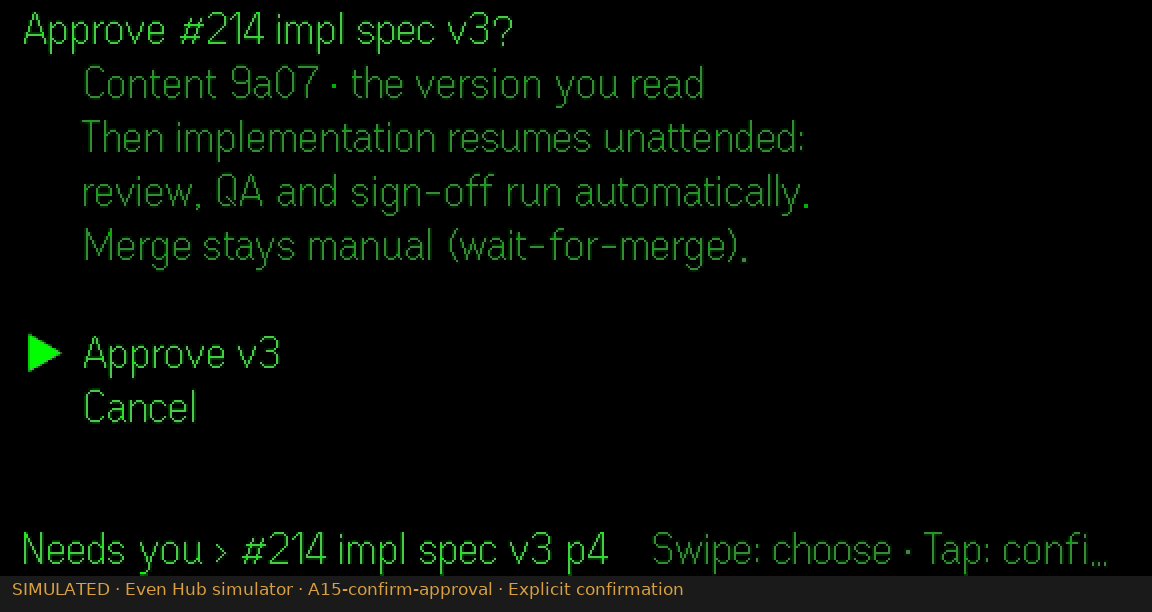
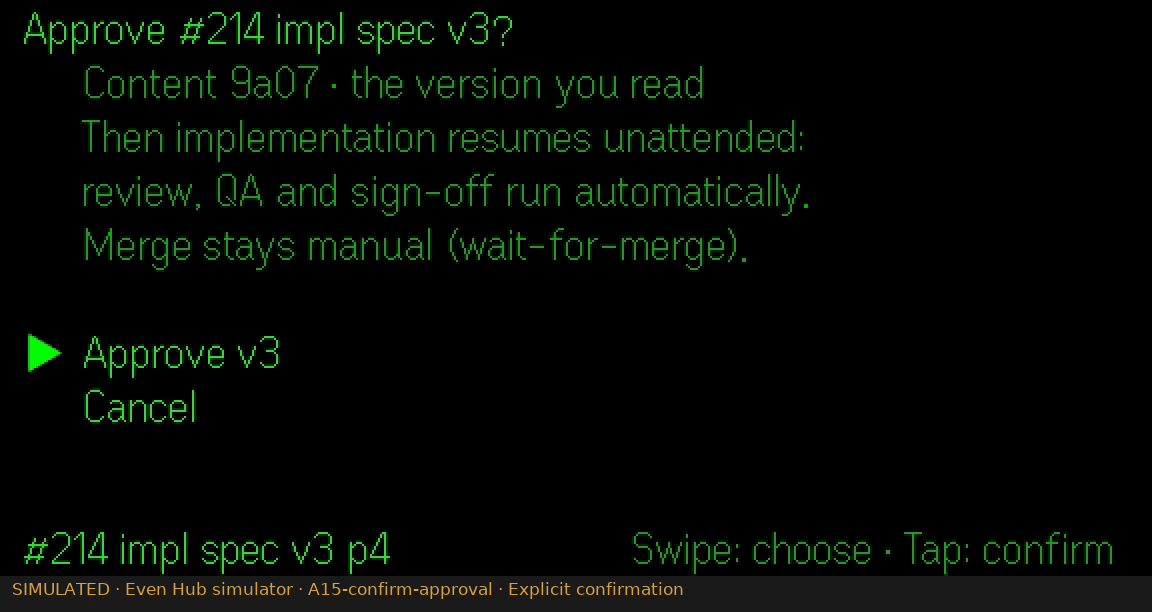
review-loop f264 i2: keep confirmation footer hint whole (A15/B16/C06/C07/D02/D03 showed 'Tap: confi…'), show history timer owners on their own row and fit attempts to the unscrollable view with an earlier-count, drop the pane from the voice panel header when it would truncate, checker fails truncat

Changed region(s): [[0.0, 0.8693, 0.9688, 0.9314]]

diff --git a/pm/docs/even-realities/mockup/src/app.js b/pm/docs/even-realities/mockup/src/app.js
@@ -3,7 +3,7 @@
 //
 // Intents are the behavior; the gesture binding lives in input.js and is one
 // candidate (see ../proposal.md "Candidate binding").
-import { wrap, width, GLYPH, BODY_ROWS } from './text.js';
+import { wrap, width, GLYPH, BODY_ROWS, MARGIN, RIGHT_X } from './text.js';
 import { row } from './frame.js';
 
 export const MENU = Object.freeze([
@@ -308,13 +308,22 @@ export class App {
         return out;
       }
       case 'history': {
+        // Nothing here is selectable, so the view cannot scroll: each timer
+        // takes two rows (its owner does not fit beside the countdown) and
+        // only the newest attempts that fit are shown.
         const h = pm.historyFor(v.pr);
         const out = [it([{ t: 'TIMERS', dim: true }], null, null)];
-        for (const t of h.timers) out.push(it([{ t: t.what }, { t: ` · ${t.owner}`, dim: true }], { t: `${t.left} → ${t.then}`, dim: false }, null));
+        for (const t of h.timers) {
+          out.push(it(t.what, { t: `${t.left} → ${t.then}`, dim: false }, null));
+          out.push(it([{ t: `owner: ${t.owner}`, x: 18, dim: true }], null, null));
+        }
         if (!h.timers.length) out.push(it([{ t: 'No PR-owned timers', dim: true }], null, null));
-        out.push(it([{ t: 'ATTEMPTS', dim: true }], null, null));
+        const room = Math.max(1, LIST_ROWS - out.length - 1);
+        const shown = h.attempts.slice(-room);
+        const earlier = h.attempts.length - shown.length;
+        out.push(it([{ t: 'ATTEMPTS', dim: true }], earlier ? { t: `+${earlier} earlier`, dim: true } : null, null));
         if (!h.attempts.length) out.push(it([{ t: 'No attempts yet', dim: true }], null, null));
-        for (const [at, what, took, outcome] of h.attempts.slice(-5)) out.push(it([{ t: at, dim: true }, { t: what, x: 86 }], { t: `${took} ${outcome}`, dim: outcome !== 'running' }, null));
+        for (const [at, what, took, outcome] of shown) out.push(it([{ t: at, dim: true }, { t: what, x: 86 }], { t: `${took} ${outcome}`, dim: outcome !== 'running' }, null));
         return out;
       }
       case 'whatchanged': {
@@ -600,9 +609,9 @@ export class App {
     if (s.run != null) return `#${this.pm.pr(s.pr).num} QA run ${s.run} · ${s.role}`;
     return `#${this.pm.pr(s.pr).num} ${s.role}`;
   }
-  breadcrumb(skip = 0) {
+  breadcrumb(skip = 0, keep = 2) {
     const names = this.stack.slice(0, this.stack.length - skip).map(x => this.shortName(x)).filter(Boolean);
-    return names.slice(-2).join(' › ');
+    return names.slice(-keep).join(' › ');
   }
   shortName(x) {
     if (x.type === 'doc') return `${this.pm.doc(x.docId).label} v${x.version} p${this.page(x).page}`;
@@ -650,8 +659,11 @@ export class App {
       rows.push(row([...(selected ? [{ t: GLYPH.cursor }] : []), ...segs.map((s, n) => ({ ...s, x: n === 0 || s.x != null ? INDENT + (s.x ?? 0) : undefined, dim: s.dim ?? !it.act }))], it.r));
     });
     const more = items.length > per ? ` · ${v.top + 1}-${Math.min(items.length, v.top + per)}/${items.length}` : '';
-    const hint = v.kind === 'confirm' ? 'Swipe: choose · Tap: confirm' : items.some(i => i.act) ? 'Tap: open · 2×: back' : '2×: back';
-    return { rows, footer: { left: `${this.breadcrumb(0) || ''}${more}`, right: hint } };
+    const confirm = v.kind === 'confirm';
+    const hint = confirm ? 'Swipe: choose · Tap: confirm' : items.some(i => i.act) ? 'Tap: open · 2×: back' : '2×: back';
+    // A confirmation's title names its subject; a one-level trail leaves the
+    // footer room to show how to confirm in full.
+    return { rows, footer: { left: `${this.breadcrumb(0, confirm ? 1 : 2) || ''}${more}`, right: hint } };
   }
   renderOverlay(frame) {
     const o = this.overlay;
@@ -669,8 +681,12 @@ export class App {
     const text = wrap((o.purpose === 'changes' ? 'Revise: ' : '') + o.text, 528).slice(0, 2);
     let x = 10;
     const choiceSegs = VOICE_CHOICES.flatMap((c, i) => { const segs = [{ t: i === o.choice ? GLYPH.cursor : '', x }, { t: c, x: x + 22, dim: i !== o.choice }]; x += 22 + width(c) + 28; return segs; });
+    // Name the pane or window too when it fits beside the busy state; the
+    // session name alone still identifies the target.
+    const to = `To ${this.sessionName(s)}`;
+    const where = `${to} · ${s.pane !== s.short ? s.pane : 'window ' + s.window}`;
     rows.splice(top, 4,
-      row([{ t: `To ${this.sessionName(s)} · ${s.pane !== s.short ? s.pane : 'window ' + s.window}`, dim: true, x: 6 }], { t: s.state === 'working' ? '◐ busy: queues' : '', dim: true }),
+      row([{ t: width(where) <= RIGHT_X - MARGIN - 14 ? where : to, dim: true, x: 6 }], { t: s.state === 'working' ? '◐ busy: queues' : '', dim: true }),
       row([{ t: text[0] || '', x: 6 }]),
       row([{ t: text[1] || (ctx ? `[${ctx.label}]` : ''), x: 6, dim: !text[1] }]),
       row(choiceSegs));

diff --git a/pm/docs/even-realities/index.html b/pm/docs/even-realities/index.html
@@ -39,7 +39,7 @@
     <li><a href="pageborne-snapshot.md">Pageborne snapshot provenance</a></li>
     <li><a href="mockup/README.md">Run the mockup</a></li>
   </ul>
-  <p class="note"><b>What is simulated.</b> All PM state, agent replies, document revisions, connection changes and speech recognition are SIMULATED by the mockup. Inputs are real simulator touchpad actions. Each image is the simulator's 576×288 glasses framebuffer, shown at 2× on black with a caption strip; follow "raw" for the original PNG. Captured 2026-10-22 00:18 UTC with @evenrealities/evenhub-simulator 0.9.5, @evenrealities/even_hub_sdk 0.0.16 and @evenrealities/pretext 0.1.4 on linux-arm64. The simulator does not model firmware timing, Bluetooth or phone lifecycles; no constraint or SDK errors were logged during capture.</p>
+  <p class="note"><b>What is simulated.</b> All PM state, agent replies, document revisions, connection changes and speech recognition are SIMULATED by the mockup. Inputs are real simulator touchpad actions. Each image is the simulator's 576×288 glasses framebuffer, shown at 2× on black with a caption strip; follow "raw" for the original PNG. Captured 2026-10-22 14:25 UTC with @evenrealities/evenhub-simulator 0.9.5, @evenrealities/even_hub_sdk 0.0.16 and @evenrealities/pretext 0.1.4 on linux-arm64. The simulator does not model firmware timing, Bluetooth or phone lifecycles; no constraint or SDK errors were logged during capture.</p>
   <h2 id="journey-A">A. Read a spec, discuss it in its session, revise, approve, hand back to PM</h2>
   <div class="grid">
   <figure id="A01-needs-you">
@@ -504,7 +504,7 @@
     <figcaption>
       <b>C03</b> History and timers
       <span class="tag">SIMULATED PM</span>
-      <p>PR-owned timers with what fires next (&quot;unknown&quot; when PM cannot tell), and recent attempts with elapsed time and outcome.</p>
+      <p>PR-owned timers with their owner and what fires next (&quot;unknown&quot; when PM cannot tell), and the newest attempts that fit, with elapsed time and outcome; older attempts are counted.</p>
       <p class="meta">scene <code>list:history:pr-216</code> · <a href="screenshots/raw/C03-history-timers.png">raw 576×288</a></p>
       <details><summary>2 steps before this shot</summary><p class="steps"><code class="">down</code> <code class="">click</code></p></details>
       

diff --git a/pm/docs/even-realities/mockup/src/main.js b/pm/docs/even-realities/mockup/src/main.js
@@ -40,20 +40,23 @@ function applyDirector(e) {
 }
 
 // Poll on an interval with an in-flight guard: a single lost timer callback
-// (the SDK wraps WebView timers) cannot stop the director.
+// (the SDK wraps WebView timers) cannot stop the director, and the request
+// timeout keeps one hung fetch from holding the guard forever.
 let polling = false;
 async function pollDirector() {
   if (polling) return;
   polling = true;
+  const abort = new AbortController();
+  const timer = setTimeout(() => abort.abort(), 2000);
   try {
-    const r = await fetch(`/director?since=${directorSeq}`, { cache: 'no-store' });
+    const r = await fetch(`/director?since=${directorSeq}`, { cache: 'no-store', signal: abort.signal });
     if (r.ok) {
       const { events, seq } = await r.json();
       directorSeq = seq;
       for (const e of events) { log(`DIRECTOR ${e.type}`); applyDirector(e); }
     }
   } catch (e) { if (!directorFailed) log(`DIRECTOR unavailable: ${e?.message || e}`); directorFailed = true; }
-  finally { polling = false; }
+  finally { clearTimeout(timer); polling = false; }
 }
 
 async function connectGlasses() {

diff --git a/pm/docs/even-realities/mockup/src/frame.js b/pm/docs/even-realities/mockup/src/frame.js
@@ -80,6 +80,8 @@ export function buildFrame(frame) {
   const footRight = f.right ? fit(f.right, CONTENT_WIDTH - 24 - Math.min(width(f.left || ''), 300)) : '';
   const footLeft = fit(f.left || '', CONTENT_WIDTH - 20 - width(footRight));
   const footDim = footRight ? padTo('', CONTENT_WIDTH - 6 - width(footRight)) + footRight : ' ';
+  // The command hint is how the user operates the view; it must stay whole.
+  if (f.right && footRight !== f.right) problems.push(`footer hint truncated: ${f.right}`);
 
   const contents = {
     input: ' ', left, leftDim, right, rightDim, foot: footLeft || ' ', footDim,

diff --git a/pm/docs/even-realities/mockup/README.md b/pm/docs/even-realities/mockup/README.md
@@ -46,7 +46,7 @@ To run on glasses during development, serve the directory and open it with `even
 | File | Role |
 |---|---|
 | `src/text.js` | Geometry (576×288, 27 px rows, 9 body rows + footer), glyph availability, wrapping with pretext widths |
-| `src/frame.js` | Frame → fixed set of 7 SDK text containers, plus a bordered 8th while the voice panel is open; checks bytes, rows, widths, glyphs, menu and capture rules |
+| `src/frame.js` | Frame → fixed set of 7 SDK text containers, plus a bordered 8th while the voice panel is open; checks bytes, rows, widths, glyphs, untruncated footer hints, menu and capture rules |
 | `src/app.js` | Views, navigation stack and intents; DOM-free |
 | `src/sim-pm.js`, `src/fixtures.js` | SIMULATED PM: documents with versions, sessions, PRs, history, gates |
 | `src/display.js` | SDK backend (create, then in-place upgrades, rebuild only for panels) and the browser canvas mirror |
